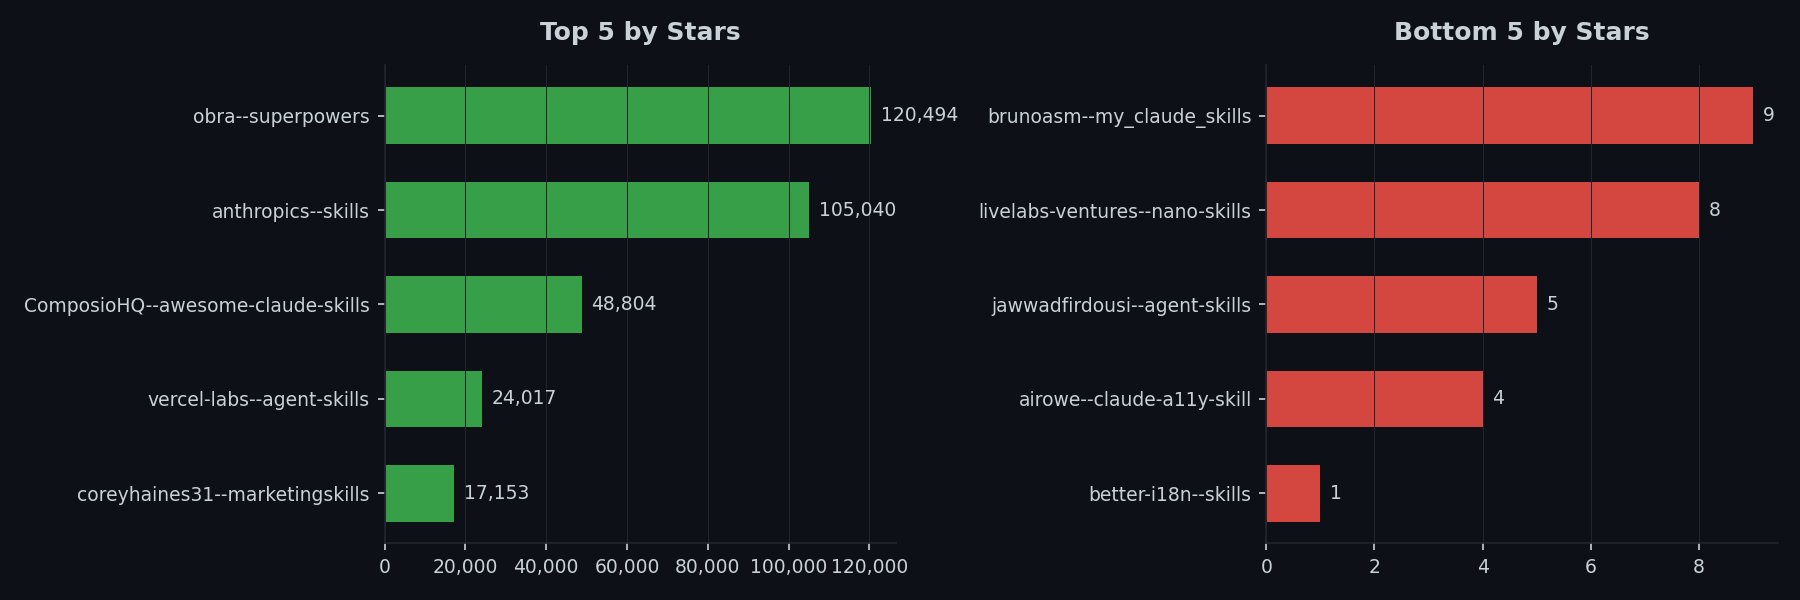
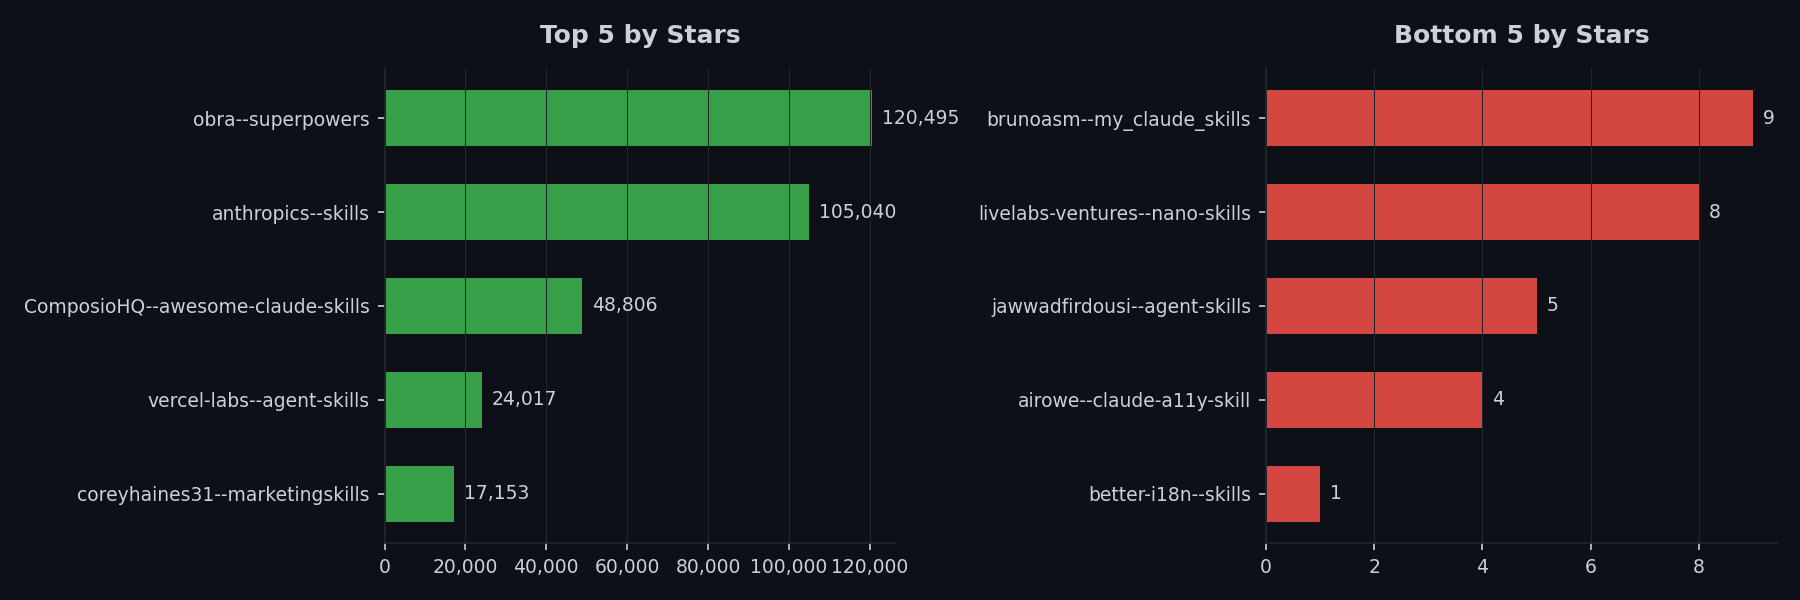
sync: update skills repos, readme and charts

diff --git a/README.md b/README.md
@@ -11,92 +11,92 @@ A curated collection of Claude Code skills repos, automatically synced every 2 d
 | Metric | Value |
 |--------|-------|
 | **Total repos** | 77 |
-| **Total skill files** | 6182 |
-| **Total size** | 227.9 MB |
-| **Last synced** | 2026-03-28 20:17 UTC |
+| **Total skill files** | 6171 (-11) |
+| **Total size** | 227.8 MB |
+| **Last synced** | 2026-03-28 20:18 UTC |
 | **Sync time** | 0s |
 
 ## Repos
 
 | Repo | Description | Skills | Stars | Size | Last Commit | Last Commit Date | Message |
 |------|-------------|--------|-------|------|-------------|------------------|---------|
-| [slavingia--skills](https://github.com/slavingia/skills) | Claude Code skills by Sahil Lavingia | 10 | 4942 | 0.0 MB | `794096f680` | 2026-03-28 | Batch API calls via GraphQL — 77 repos metadata in ~4s instead of 60s+ |
-| [zarazhangrui--codebase-to-course](https://github.com/zarazhangrui/codebase-to-course) | Turn any codebase into a structured course | 3 | 2262 | 0.1 MB | `794096f680` | 2026-03-28 | Batch API calls via GraphQL — 77 repos metadata in ~4s instead of 60s+ |
-| [samber--cc-skills-golang](https://github.com/samber/cc-skills-golang) | Claude Code skills for Go development | 168 | 524 | 2.7 MB | `794096f680` | 2026-03-28 | Batch API calls via GraphQL — 77 repos metadata in ~4s instead of 60s+ |
-| [realkimbarrett--advertising-skills](https://github.com/realkimbarrett/advertising-skills) | Advertising skills | 19 | 369 | 0.0 MB | `794096f680` | 2026-03-28 | Batch API calls via GraphQL — 77 repos metadata in ~4s instead of 60s+ |
-| [ComposioHQ--awesome-claude-skills](https://github.com/ComposioHQ/awesome-claude-skills) | A curated list of awesome Claude Skills, resources, and tools for customizing Claude AI workflows  | 889 | 48804 | 11.1 MB | `794096f680` | 2026-03-28 | Batch API calls via GraphQL — 77 repos metadata in ~4s instead of 60s+ |
-| [anthropics--skills](https://github.com/anthropics/skills) |  Public repository for Agent Skills  | 67 | 105040 (+1) | 9.5 MB | `794096f680` | 2026-03-28 | Batch API calls via GraphQL — 77 repos metadata in ~4s instead of 60s+ |
-| [1NickPappas--move-code-quality-skill](https://github.com/1NickPappas/move-code-quality-skill) | Claude Code skill for analyzing Move packages against the official Move Book Code Quality Checklist | 1 | 18 | 0.0 MB | `794096f680` | 2026-03-28 | Batch API calls via GraphQL — 77 repos metadata in ~4s instead of 60s+ |
-| [ARPeeketi--claude-resume-kit](https://github.com/ARPeeketi/claude-resume-kit) | Extract your papers once, generate tailored LaTeX resumes for every JD. Anti-fabrication controls, multi-perspective critique, AI fingerprint avoidance. | 22 | 30 | 0.5 MB | `794096f680` | 2026-03-28 | Batch API calls via GraphQL — 77 repos metadata in ~4s instead of 60s+ |
-| [AgriciDaniel--claude-blog](https://github.com/AgriciDaniel/claude-blog) | Claude Code skill ecosystem for blog content creation, optimization, and management. Dual-optimized for Google rankings and AI citations. | 77 | 331 | 2.6 MB | `794096f680` | 2026-03-28 | Batch API calls via GraphQL — 77 repos metadata in ~4s instead of 60s+ |
-| [AgriciDaniel--claude-email](https://github.com/AgriciDaniel/claude-email) | AI-powered email management and marketing skill for Claude Code. Inbox triage, composition, quality review, deliverability audit, automation sequences, and marketing strategy. | 27 | 14 | 1.0 MB | `794096f680` | 2026-03-28 | Batch API calls via GraphQL — 77 repos metadata in ~4s instead of 60s+ |
-| [ClickHouse--agent-skills](https://github.com/ClickHouse/agent-skills) | The official Agent Skills for ClickHouse and ClickHouse Cloud | 34 | 376 | 0.2 MB | `794096f680` | 2026-03-28 | Batch API calls via GraphQL — 77 repos metadata in ~4s instead of 60s+ |
-| [Digidai--product-manager-skills](https://github.com/Digidai/product-manager-skills) | PM skill for Claude Code, Codex, Cursor, and Windsurf: diagnose SaaS metrics, critique PRDs, plan roadmaps, run discovery, and coach PM career transitions. | 25 | 31 | 0.1 MB | `794096f680` | 2026-03-28 | Batch API calls via GraphQL — 77 repos metadata in ~4s instead of 60s+ |
-| [EveryInc--compound-engineering-plugin](https://github.com/EveryInc/compound-engineering-plugin) | Office Compound Engineering plugin for Claude Code, Codex, and more | 229 | 11359 | 2.9 MB | `794096f680` | 2026-03-28 | Batch API calls via GraphQL — 77 repos metadata in ~4s instead of 60s+ |
-| [Eyadkelleh--awesome-claude-skills-security](https://github.com/Eyadkelleh/awesome-claude-skills-security) | Security testing toolkit for Claude Code: curated SecLists wordlists, injection payloads, and expert agents for authorized pentesting, CTFs, and bug bounties | 19 | 112 | 2.7 MB | `794096f680` | 2026-03-28 | Batch API calls via GraphQL — 77 repos metadata in ~4s instead of 60s+ |
-| [HeshamFS--materials-simulation-skills](https://github.com/HeshamFS/materials-simulation-skills) | Agent Skills for computational materials science -- numerical stability, solvers, meshing,   convergence, and simulation workflows. | 69 | 28 | 1.6 MB | `794096f680` | 2026-03-28 | Batch API calls via GraphQL — 77 repos metadata in ~4s instead of 60s+ |
-| [Imbad0202--academic-research-skills](https://github.com/Imbad0202/academic-research-skills) | Academic Research Skills for Claude Code: research → write → review → revise → finalize | 120 | 1529 | 3.9 MB | `794096f680` | 2026-03-28 | Batch API calls via GraphQL — 77 repos metadata in ~4s instead of 60s+ |
-| [K-Dense-AI--claude-scientific-skills](https://github.com/K-Dense-AI/claude-scientific-skills) | A set of ready to use Agent Skills for research, science, engineering, analysis, finance and writing. | 921 | 16538 | 16.5 MB | `794096f680` | 2026-03-28 | Batch API calls via GraphQL — 77 repos metadata in ~4s instead of 60s+ |
-| [K-Dense-AI--claude-scientific-writer](https://github.com/K-Dense-AI/claude-scientific-writer) | A general purpose scientific writer | 502 | 1344 | 21.8 MB | `794096f680` | 2026-03-28 | Batch API calls via GraphQL — 77 repos metadata in ~4s instead of 60s+ |
-| [NeoLabHQ--context-engineering-kit](https://github.com/NeoLabHQ/context-engineering-kit) | Hand-crafted Claude Code Skills focused on improving agent results quality. Compatible with OpenCode, Cursor, Antigravity, Gemini CLI, and others. | 230 | 723 | 3.5 MB | `794096f680` | 2026-03-28 | Batch API calls via GraphQL — 77 repos metadata in ~4s instead of 60s+ |
-| [Orchestra-Research--AI-research-SKILLs](https://github.com/Orchestra-Research/AI-research-SKILLs) | Comprehensive open-source library of AI research and engineering skills for any AI model. Package the skills and your claude code/codex/gemini agent will be an AI research agent with full horsepower. Maintained by Orchestra Research. | 350 | 5749 | 23.0 MB | `794096f680` | 2026-03-28 | Batch API calls via GraphQL — 77 repos metadata in ~4s instead of 60s+ |
-| [Paramchoudhary--ResumeSkills](https://github.com/Paramchoudhary/ResumeSkills) | A collection of AI agent skills focused on resume optimization, job applications, and career development. Built for job seekers, career changers, and professionals who want Claude Code to help with resume writing, ATS optimization, interview prep, and strategic job search. | 27 | 191 | 0.3 MB | `794096f680` | 2026-03-28 | Batch API calls via GraphQL — 77 repos metadata in ~4s instead of 60s+ |
-| [Valian--linear-cli-skill](https://github.com/Valian/linear-cli-skill) | linear-cli-skill | 2 | 13 | 0.1 MB | `794096f680` | 2026-03-28 | Batch API calls via GraphQL — 77 repos metadata in ~4s instead of 60s+ |
-| [ahmedasmar--devops-claude-skills](https://github.com/ahmedasmar/devops-claude-skills) | A Claude Code Skills Marketplace for DevOps workflows | 41 | 108 | 1.0 MB | `794096f680` | 2026-03-28 | Batch API calls via GraphQL — 77 repos metadata in ~4s instead of 60s+ |
-| [airowe--claude-a11y-skill](https://github.com/airowe/claude-a11y-skill) | Claude Code skill for running comprehensive accessibility audits (axe-core + jsx-a11y) | 1 | 4 | 0.0 MB | `794096f680` | 2026-03-28 | Batch API calls via GraphQL — 77 repos metadata in ~4s instead of 60s+ |
-| [akin-ozer--cc-devops-skills](https://github.com/akin-ozer/cc-devops-skills) | A practical skill pack for DevOps work in Claude Code and Codex. | 126 | 142 | 4.1 MB | `794096f680` | 2026-03-28 | Batch API calls via GraphQL — 77 repos metadata in ~4s instead of 60s+ |
-| [alonw0--web-asset-generator](https://github.com/alonw0/web-asset-generator) | Claude skill to generate favicons, app icons, and social media images from logos, text, or emojis. Supports emoji suggestions, validation, and framework auto-integration. | 4 | 253 | 15.4 MB | `794096f680` | 2026-03-28 | Batch API calls via GraphQL — 77 repos metadata in ~4s instead of 60s+ |
-| [antonbabenko--terraform-skill](https://github.com/antonbabenko/terraform-skill) | The Claude Agent Skill for Terraform and OpenTofu - testing, modules, CI/CD, and production patterns | 12 | 1404 | 0.2 MB | `794096f680` | 2026-03-28 | Batch API calls via GraphQL — 77 repos metadata in ~4s instead of 60s+ |
-| [avifenesh--agentsys](https://github.com/avifenesh/agentsys) | AI writes code. This automates everything else · 19 plugins, 47 agents, and 39 skills · for Claude Code, OpenCode, Codex, Cursor, Kiro. | 90 | 663 | 3.9 MB | `794096f680` | 2026-03-28 | Batch API calls via GraphQL — 77 repos metadata in ~4s instead of 60s+ |
-| [better-auth--skills](https://github.com/better-auth/skills) | skills | 7 | 163 | 0.1 MB | `794096f680` | 2026-03-28 | Batch API calls via GraphQL — 77 repos metadata in ~4s instead of 60s+ |
-| [better-i18n--skills](https://github.com/better-i18n/skills) | Official AI agent skills for Better i18n — best practices for i18n implementation, translation workflows, and localization automation with Claude, GPT, and other AI assistants | 10 | 1 | 0.1 MB | `794096f680` | 2026-03-28 | Batch API calls via GraphQL — 77 repos metadata in ~4s instead of 60s+ |
-| [brunoasm--my_claude_skills](https://github.com/brunoasm/my_claude_skills) | Claude Skill to prevent automatic confirmatory answers | 13 | 9 | 7.1 MB | `794096f680` | 2026-03-28 | Batch API calls via GraphQL — 77 repos metadata in ~4s instead of 60s+ |
-| [callstackincubator--agent-skills](https://github.com/callstackincubator/agent-skills) | A collection of agent-optimized React Native skills for AI coding assistants. | 115 | 1130 | 9.2 MB | `794096f680` | 2026-03-28 | Batch API calls via GraphQL — 77 repos metadata in ~4s instead of 60s+ |
-| [chrisvoncsefalvay--claude-d3js-skill](https://github.com/chrisvoncsefalvay/claude-d3js-skill) | A Claude skill for d3.js. | 4 | 138 | 0.1 MB | `794096f680` | 2026-03-28 | Batch API calls via GraphQL — 77 repos metadata in ~4s instead of 60s+ |
-| [cloudflare--skills](https://github.com/cloudflare/skills) | Skills for teaching agents how to build on Cloudflare. | 282 | 733 | 1.5 MB | `794096f680` | 2026-03-28 | Batch API calls via GraphQL — 77 repos metadata in ~4s instead of 60s+ |
-| [coffeefuelbump--csv-data-summarizer-claude-skill](https://github.com/coffeefuelbump/csv-data-summarizer-claude-skill) | A Claude Skill that automatically analyzes uploaded CSV files — generating summary statistics, detecting missing data, and creating quick visualizations using Python and pandas. | 1 | 315 | 0.0 MB | `794096f680` | 2026-03-28 | Batch API calls via GraphQL — 77 repos metadata in ~4s instead of 60s+ |
-| [conorbronsdon--avoid-ai-writing](https://github.com/conorbronsdon/avoid-ai-writing) | Claude Code & OpenClaw skill that audits and rewrites content to remove AI writing patterns | 1 | 47 | 0.1 MB | `794096f680` | 2026-03-28 | Batch API calls via GraphQL — 77 repos metadata in ~4s instead of 60s+ |
-| [conorluddy--ios-simulator-skill](https://github.com/conorluddy/ios-simulator-skill) | An IOS Simulator Skill for ClaudeCode. Use it to optimise Claude's ability to build, run and interact with your apps, without using up any of the available token/context budget. | 8 | 674 | 0.4 MB | `794096f680` | 2026-03-28 | Batch API calls via GraphQL — 77 repos metadata in ~4s instead of 60s+ |
-| [coreyhaines31--marketingskills](https://github.com/coreyhaines31/marketingskills) | Marketing skills for Claude Code and AI agents. CRO, copywriting, SEO, analytics, and growth engineering. | 174 | 17153 | 1.8 MB | `794096f680` | 2026-03-28 | Batch API calls via GraphQL — 77 repos metadata in ~4s instead of 60s+ |
-| [dreamiurg--claude-mountaineering-skills](https://github.com/dreamiurg/claude-mountaineering-skills) | Automates mountain route research for North American peaks. Aggregates data from 10+ mountaineering sources to generate detailed route beta reports with weather, avalanche conditions, and trip reports. | 15 | 22 | 4.4 MB | `794096f680` | 2026-03-28 | Batch API calls via GraphQL — 77 repos metadata in ~4s instead of 60s+ |
-| [emaynard--claude-family-history-research-skill](https://github.com/emaynard/claude-family-history-research-skill) | A Claude Skill to assist with family history and genealogy research planning. | 14 | 49 | 0.1 MB | `794096f680` | 2026-03-28 | Batch API calls via GraphQL — 77 repos metadata in ~4s instead of 60s+ |
-| [expo--skills](https://github.com/expo/skills) | A collection of AI agent skills for working with Expo projects and Expo Application Services | 38 | 1565 | 0.2 MB | `794096f680` | 2026-03-28 | Batch API calls via GraphQL — 77 repos metadata in ~4s instead of 60s+ |
-| [firecrawl--cli](https://github.com/firecrawl/cli) | CLI and Agent Skill for Firecrawl - Add scrape, search, and browsing capabilities to your AI agents | 10 | 231 | 0.6 MB | `794096f680` | 2026-03-28 | Batch API calls via GraphQL — 77 repos metadata in ~4s instead of 60s+ |
-| [hashicorp--agent-skills](https://github.com/hashicorp/agent-skills) | A collection of Agent skills and Claude Code plugins for HashiCorp products. | 26 | 494 | 0.3 MB | `794096f680` | 2026-03-28 | Batch API calls via GraphQL — 77 repos metadata in ~4s instead of 60s+ |
-| [jananthan30--Resume-Builder](https://github.com/jananthan30/Resume-Builder) | AI-powered resume & cover letter generator with dual ATS + HR scoring. Works for any profession. Claude Code plugin. | 18 | 21 | 1.3 MB | `794096f680` | 2026-03-28 | Batch API calls via GraphQL — 77 repos metadata in ~4s instead of 60s+ |
-| [javiera-vasquez--claude-code-job-tailor](https://github.com/javiera-vasquez/claude-code-job-tailor) | AI resume optimization system for Claude Code. Analyzes job postings, ranks requirements by priority, and automatically selects your most relevant achievements. Write your experience once in YAML, generate unlimited tailored PDFs in 60 less than seconds using Tailor | 15 | 105 | 34.3 MB | `794096f680` | 2026-03-28 | Batch API calls via GraphQL — 77 repos metadata in ~4s instead of 60s+ |
-| [jawwadfirdousi--agent-skills](https://github.com/jawwadfirdousi/agent-skills) | agent-skills | 7 | 5 | 0.1 MB | `794096f680` | 2026-03-28 | Batch API calls via GraphQL — 77 repos metadata in ~4s instead of 60s+ |
-| [jthack--ffuf_claude_skill](https://github.com/jthack/ffuf_claude_skill) | This is a "skill" for claude to use FFUF. | 3 | 129 | 0.0 MB | `794096f680` | 2026-03-28 | Batch API calls via GraphQL — 77 repos metadata in ~4s instead of 60s+ |
-| [lackeyjb--playwright-skill](https://github.com/lackeyjb/playwright-skill) | Claude Code Skill for browser automation with Playwright. Model-invoked - Claude autonomously writes and executes custom automation for testing and validation. | 2 | 2224 | 0.1 MB | `794096f680` | 2026-03-28 | Batch API calls via GraphQL — 77 repos metadata in ~4s instead of 60s+ |
-| [livelabs-ventures--nano-skills](https://github.com/livelabs-ventures/nano-skills) | Creating images with Nano Banana Pro | 1 | 8 | 0.0 MB | `794096f680` | 2026-03-28 | Batch API calls via GraphQL — 77 repos metadata in ~4s instead of 60s+ |
-| [mhattingpete--claude-skills-marketplace](https://github.com/mhattingpete/claude-skills-marketplace) | Claude Code Skills for software engineering workflows - Git automation, testing, and code review | 34 | 514 | 1.5 MB | `794096f680` | 2026-03-28 | Batch API calls via GraphQL — 77 repos metadata in ~4s instead of 60s+ |
-| [michalparkola--tapestry-skills-for-claude-code](https://github.com/michalparkola/tapestry-skills-for-claude-code) | Claude Code skills to download sources (articles, PDFs, YouTube video transcripts) | 7 | 305 | 0.1 MB | `794096f680` | 2026-03-28 | Batch API calls via GraphQL — 77 repos metadata in ~4s instead of 60s+ |
-| [neondatabase--agent-skills](https://github.com/neondatabase/agent-skills) | Agent Skills for Neon Severless Postgres | 13 | 43 | 0.7 MB | `794096f680` | 2026-03-28 | Batch API calls via GraphQL — 77 repos metadata in ~4s instead of 60s+ |
-| [netlify--context-and-tools](https://github.com/netlify/context-and-tools) | context-and-tools | 44 | 10 | 0.2 MB | `794096f680` | 2026-03-28 | Batch API calls via GraphQL — 77 repos metadata in ~4s instead of 60s+ |
-| [obra--superpowers](https://github.com/obra/superpowers) | An agentic skills framework & software development methodology that works. | 69 | 120494 (+1) | 0.7 MB | `794096f680` | 2026-03-28 | Batch API calls via GraphQL — 77 repos metadata in ~4s instead of 60s+ |
-| [obra--superpowers-skills](https://github.com/obra/superpowers-skills) | Community-editable skills for Claude Code's superpowers plugin | 46 | 581 | 0.4 MB | `794096f680` | 2026-03-28 | Batch API calls via GraphQL — 77 repos metadata in ~4s instead of 60s+ |
-| [omkamal--pypict-claude-skill](https://github.com/omkamal/pypict-claude-skill) | A claude skill that generate test cases using N-wise test cases using the pypict library | 13 | 62 | 0.1 MB | `794096f680` | 2026-03-28 | Batch API calls via GraphQL — 77 repos metadata in ~4s instead of 60s+ |
-| [proficientlyjobs--proficiently-claude-skills](https://github.com/proficientlyjobs/proficiently-claude-skills) | Claude Code skills for AI-powered job search, resume tailoring, and cover letter writing | 24 | 78 | 0.1 MB | `794096f680` | 2026-03-28 | Batch API calls via GraphQL — 77 repos metadata in ~4s instead of 60s+ |
-| [remotion-dev--skills](https://github.com/remotion-dev/skills) | Agent Skills | 38 | 2442 | 0.1 MB | `794096f680` | 2026-03-28 | Batch API calls via GraphQL — 77 repos metadata in ~4s instead of 60s+ |
-| [replicate--skills](https://github.com/replicate/skills) | A collection of Agent Skills for building AI-powered apps with Replicate | 2 | 26 | 0.0 MB | `794096f680` | 2026-03-28 | Batch API calls via GraphQL — 77 repos metadata in ~4s instead of 60s+ |
-| [robertguss--claude-skills](https://github.com/robertguss/claude-skills) | A collection of custom skills that extend Claude's capabilities with specialized workflows, methods, and domain knowledge. | 244 | 53 | 2.2 MB | `794096f680` | 2026-03-28 | Batch API calls via GraphQL — 77 repos metadata in ~4s instead of 60s+ |
-| [ryanbbrown--revealjs-skill](https://github.com/ryanbbrown/revealjs-skill) | Claude Code skill for making reveal.js presentations | 4 | 240 | 2.1 MB | `794096f680` | 2026-03-28 | Batch API calls via GraphQL — 77 repos metadata in ~4s instead of 60s+ |
-| [sanity-io--agent-toolkit](https://github.com/sanity-io/agent-toolkit) | Collection of resources to help AI agents build better with Sanity. | 44 | 104 | 0.3 MB | `794096f680` | 2026-03-28 | Batch API calls via GraphQL — 77 repos metadata in ~4s instead of 60s+ |
-| [sanjay3290--ai-skills](https://github.com/sanjay3290/ai-skills) | Collection of agent skills for AI coding assistants | 24 | 180 | 0.8 MB | `794096f680` | 2026-03-28 | Batch API calls via GraphQL — 77 repos metadata in ~4s instead of 60s+ |
-| [smerchek--claude-epub-skill](https://github.com/smerchek/claude-epub-skill) | A Claude Skill for converting markdown documents, chat summaries, or research reports into a downloadable epub file that can be sent to kindle | 5 | 101 | 0.1 MB | `794096f680` | 2026-03-28 | Batch API calls via GraphQL — 77 repos metadata in ~4s instead of 60s+ |
-| [squirrelscan--skills](https://github.com/squirrelscan/skills) | Agent skills for squirrelscan website audit tool | 2 | 68 | 0.0 MB | `794096f680` | 2026-03-28 | Batch API calls via GraphQL — 77 repos metadata in ~4s instead of 60s+ |
-| [stripe--ai](https://github.com/stripe/ai) | One-stop shop for building AI-powered products and businesses with Stripe. | 47 | 1410 | 22.2 MB | `794096f680` | 2026-03-28 | Batch API calls via GraphQL — 77 repos metadata in ~4s instead of 60s+ |
-| [supabase--agent-skills](https://github.com/supabase/agent-skills) | Agent Skills to help developers using AI agents with Supabase | 39 | 1728 | 0.2 MB | `794096f680` | 2026-03-28 | Batch API calls via GraphQL — 77 repos metadata in ~4s instead of 60s+ |
-| [tinybirdco--tinybird-agent-skills](https://github.com/tinybirdco/tinybird-agent-skills) | tinybird-agent-skills | 47 | 14 | 0.1 MB | `794096f680` | 2026-03-28 | Batch API calls via GraphQL — 77 repos metadata in ~4s instead of 60s+ |
-| [trailofbits--skills](https://github.com/trailofbits/skills) | Trail of Bits Claude Code skills for security research, vulnerability detection, and audit workflows | 389 | 4046 | 3.4 MB | `794096f680` | 2026-03-28 | Batch API calls via GraphQL — 77 repos metadata in ~4s instead of 60s+ |
-| [typefully--agent-skills](https://github.com/typefully/agent-skills) | AI agent skills for drafting and scheduling social media posts via Typefully | 4 | 39 | 0.2 MB | `794096f680` | 2026-03-28 | Batch API calls via GraphQL — 77 repos metadata in ~4s instead of 60s+ |
-| [varunr89--resume-tailoring-skill](https://github.com/varunr89/resume-tailoring-skill) | AI-powered resume tailoring skill for Claude Code | 12 | 193 | 0.2 MB | `794096f680` | 2026-03-28 | Batch API calls via GraphQL — 77 repos metadata in ~4s instead of 60s+ |
-| [vercel-labs--agent-skills](https://github.com/vercel-labs/agent-skills) | Vercel's official collection of agent skills | 127 | 24017 | 0.7 MB | `794096f680` | 2026-03-28 | Batch API calls via GraphQL — 77 repos metadata in ~4s instead of 60s+ |
-| [vercel-labs--next-skills](https://github.com/vercel-labs/next-skills) | next-skills | 24 | 783 | 0.1 MB | `794096f680` | 2026-03-28 | Batch API calls via GraphQL — 77 repos metadata in ~4s instead of 60s+ |
-| [wrsmith108--linear-claude-skill](https://github.com/wrsmith108/linear-claude-skill) | Agent skill for managing Linear issues, projects, and teams. MCP tools, SDK automation, GraphQL API patterns. | 7 | 74 | 0.5 MB | `794096f680` | 2026-03-28 | Batch API calls via GraphQL — 77 repos metadata in ~4s instead of 60s+ |
-| [wrsmith108--varlock-claude-skill](https://github.com/wrsmith108/varlock-claude-skill) | Claude Code skill for secure environment variable management with Varlock. Never expose secrets in Claude sessions. | 1 | 16 | 0.0 MB | `794096f680` | 2026-03-28 | Batch API calls via GraphQL — 77 repos metadata in ~4s instead of 60s+ |
-| [zarazhangrui--frontend-slides](https://github.com/zarazhangrui/frontend-slides) | Create beautiful slides on the web using Claude's frontend skills | 4 | 11554 | 0.1 MB | `794096f680` | 2026-03-28 | Batch API calls via GraphQL — 77 repos metadata in ~4s instead of 60s+ |
-| [zxkane--aws-skills](https://github.com/zxkane/aws-skills) | Claude Agent Skills for AWS | 19 | 223 | 0.3 MB | `794096f680` | 2026-03-28 | Batch API calls via GraphQL — 77 repos metadata in ~4s instead of 60s+ |
+| [slavingia--skills](https://github.com/slavingia/skills) | Claude Code skills by Sahil Lavingia | 10 | 4942 | 0.0 MB | `6c3635474b` | 2026-03-28 | Regenerate after merge conflict |
+| [zarazhangrui--codebase-to-course](https://github.com/zarazhangrui/codebase-to-course) | Turn any codebase into a structured course | 3 | 2262 | 0.1 MB | `6c3635474b` | 2026-03-28 | Regenerate after merge conflict |
+| [samber--cc-skills-golang](https://github.com/samber/cc-skills-golang) | Claude Code skills for Go development | 168 | 524 | 2.7 MB | `6c3635474b` | 2026-03-28 | Regenerate after merge conflict |
+| [realkimbarrett--advertising-skills](https://github.com/realkimbarrett/advertising-skills) | Advertising skills | 19 | 369 | 0.0 MB | `6c3635474b` | 2026-03-28 | Regenerate after merge conflict |
+| [ComposioHQ--awesome-claude-skills](https://github.com/ComposioHQ/awesome-claude-skills) | A curated list of awesome Claude Skills, resources, and tools for customizing Claude AI workflows  | 889 | 48806 (+2) | 11.1 MB | `6c3635474b` | 2026-03-28 | Regenerate after merge conflict |
+| [anthropics--skills](https://github.com/anthropics/skills) |  Public repository for Agent Skills  | 67 | 105040 | 9.5 MB | `6c3635474b` | 2026-03-28 | Regenerate after merge conflict |
+| [1NickPappas--move-code-quality-skill](https://github.com/1NickPappas/move-code-quality-skill) | Claude Code skill for analyzing Move packages against the official Move Book Code Quality Checklist | 1 | 18 | 0.0 MB | `6c3635474b` | 2026-03-28 | Regenerate after merge conflict |
+| [ARPeeketi--claude-resume-kit](https://github.com/ARPeeketi/claude-resume-kit) | Extract your papers once, generate tailored LaTeX resumes for every JD. Anti-fabrication controls, multi-perspective critique, AI fingerprint avoidance. | 22 | 30 | 0.5 MB | `6c3635474b` | 2026-03-28 | Regenerate after merge conflict |
+| [AgriciDaniel--claude-blog](https://github.com/AgriciDaniel/claude-blog) | Claude Code skill ecosystem for blog content creation, optimization, and management. Dual-optimized for Google rankings and AI citations. | 77 | 331 | 2.6 MB | `6c3635474b` | 2026-03-28 | Regenerate after merge conflict |
+| [AgriciDaniel--claude-email](https://github.com/AgriciDaniel/claude-email) | AI-powered email management and marketing skill for Claude Code. Inbox triage, composition, quality review, deliverability audit, automation sequences, and marketing strategy. | 27 | 14 | 1.0 MB | `6c3635474b` | 2026-03-28 | Regenerate after merge conflict |
+| [ClickHouse--agent-skills](https://github.com/ClickHouse/agent-skills) | The official Agent Skills for ClickHouse and ClickHouse Cloud | 34 | 376 | 0.2 MB | `6c3635474b` | 2026-03-28 | Regenerate after merge conflict |
+| [Digidai--product-manager-skills](https://github.com/Digidai/product-manager-skills) | PM skill for Claude Code, Codex, Cursor, and Windsurf: diagnose SaaS metrics, critique PRDs, plan roadmaps, run discovery, and coach PM career transitions. | 25 | 31 | 0.1 MB | `6c3635474b` | 2026-03-28 | Regenerate after merge conflict |
+| [EveryInc--compound-engineering-plugin](https://github.com/EveryInc/compound-engineering-plugin) | Office Compound Engineering plugin for Claude Code, Codex, and more | 229 | 11359 | 2.9 MB | `6c3635474b` | 2026-03-28 | Regenerate after merge conflict |
+| [Eyadkelleh--awesome-claude-skills-security](https://github.com/Eyadkelleh/awesome-claude-skills-security) | Security testing toolkit for Claude Code: curated SecLists wordlists, injection payloads, and expert agents for authorized pentesting, CTFs, and bug bounties | 19 | 112 | 2.7 MB | `6c3635474b` | 2026-03-28 | Regenerate after merge conflict |
+| [HeshamFS--materials-simulation-skills](https://github.com/HeshamFS/materials-simulation-skills) | Agent Skills for computational materials science -- numerical stability, solvers, meshing,   convergence, and simulation workflows. | 69 | 28 | 1.6 MB | `6c3635474b` | 2026-03-28 | Regenerate after merge conflict |
+| [Imbad0202--academic-research-skills](https://github.com/Imbad0202/academic-research-skills) | Academic Research Skills for Claude Code: research → write → review → revise → finalize | 120 | 1529 | 3.9 MB | `6c3635474b` | 2026-03-28 | Regenerate after merge conflict |
+| [K-Dense-AI--claude-scientific-skills](https://github.com/K-Dense-AI/claude-scientific-skills) | A set of ready to use Agent Skills for research, science, engineering, analysis, finance and writing. | 921 | 16538 | 16.5 MB | `6c3635474b` | 2026-03-28 | Regenerate after merge conflict |
+| [K-Dense-AI--claude-scientific-writer](https://github.com/K-Dense-AI/claude-scientific-writer) | A general purpose scientific writer | 502 | 1344 | 21.8 MB | `6c3635474b` | 2026-03-28 | Regenerate after merge conflict |
+| [NeoLabHQ--context-engineering-kit](https://github.com/NeoLabHQ/context-engineering-kit) | Hand-crafted Claude Code Skills focused on improving agent results quality. Compatible with OpenCode, Cursor, Antigravity, Gemini CLI, and others. | 220 (-10) | 723 | 3.4 MB | `6c3635474b` | 2026-03-28 | Regenerate after merge conflict |
+| [Orchestra-Research--AI-research-SKILLs](https://github.com/Orchestra-Research/AI-research-SKILLs) | Comprehensive open-source library of AI research and engineering skills for any AI model. Package the skills and your claude code/codex/gemini agent will be an AI research agent with full horsepower. Maintained by Orchestra Research. | 350 | 5749 | 23.0 MB | `6c3635474b` | 2026-03-28 | Regenerate after merge conflict |
+| [Paramchoudhary--ResumeSkills](https://github.com/Paramchoudhary/ResumeSkills) | A collection of AI agent skills focused on resume optimization, job applications, and career development. Built for job seekers, career changers, and professionals who want Claude Code to help with resume writing, ATS optimization, interview prep, and strategic job search. | 27 | 191 | 0.3 MB | `6c3635474b` | 2026-03-28 | Regenerate after merge conflict |
+| [Valian--linear-cli-skill](https://github.com/Valian/linear-cli-skill) | linear-cli-skill | 2 | 13 | 0.1 MB | `6c3635474b` | 2026-03-28 | Regenerate after merge conflict |
+| [ahmedasmar--devops-claude-skills](https://github.com/ahmedasmar/devops-claude-skills) | A Claude Code Skills Marketplace for DevOps workflows | 41 | 108 | 1.0 MB | `6c3635474b` | 2026-03-28 | Regenerate after merge conflict |
+| [airowe--claude-a11y-skill](https://github.com/airowe/claude-a11y-skill) | Claude Code skill for running comprehensive accessibility audits (axe-core + jsx-a11y) | 1 | 4 | 0.0 MB | `6c3635474b` | 2026-03-28 | Regenerate after merge conflict |
+| [akin-ozer--cc-devops-skills](https://github.com/akin-ozer/cc-devops-skills) | A practical skill pack for DevOps work in Claude Code and Codex. | 126 | 142 | 4.1 MB | `6c3635474b` | 2026-03-28 | Regenerate after merge conflict |
+| [alonw0--web-asset-generator](https://github.com/alonw0/web-asset-generator) | Claude skill to generate favicons, app icons, and social media images from logos, text, or emojis. Supports emoji suggestions, validation, and framework auto-integration. | 4 | 253 | 15.4 MB | `6c3635474b` | 2026-03-28 | Regenerate after merge conflict |
+| [antonbabenko--terraform-skill](https://github.com/antonbabenko/terraform-skill) | The Claude Agent Skill for Terraform and OpenTofu - testing, modules, CI/CD, and production patterns | 12 | 1404 | 0.2 MB | `6c3635474b` | 2026-03-28 | Regenerate after merge conflict |
+| [avifenesh--agentsys](https://github.com/avifenesh/agentsys) | AI writes code. This automates everything else · 19 plugins, 47 agents, and 39 skills · for Claude Code, OpenCode, Codex, Cursor, Kiro. | 90 | 663 | 3.9 MB | `6c3635474b` | 2026-03-28 | Regenerate after merge conflict |
+| [better-auth--skills](https://github.com/better-auth/skills) | skills | 7 | 163 | 0.1 MB | `6c3635474b` | 2026-03-28 | Regenerate after merge conflict |
+| [better-i18n--skills](https://github.com/better-i18n/skills) | Official AI agent skills for Better i18n — best practices for i18n implementation, translation workflows, and localization automation with Claude, GPT, and other AI assistants | 10 | 1 | 0.1 MB | `6c3635474b` | 2026-03-28 | Regenerate after merge conflict |
+| [brunoasm--my_claude_skills](https://github.com/brunoasm/my_claude_skills) | Claude Skill to prevent automatic confirmatory answers | 13 | 9 | 7.1 MB | `6c3635474b` | 2026-03-28 | Regenerate after merge conflict |
+| [callstackincubator--agent-skills](https://github.com/callstackincubator/agent-skills) | A collection of agent-optimized React Native skills for AI coding assistants. | 115 | 1130 | 9.2 MB | `6c3635474b` | 2026-03-28 | Regenerate after merge conflict |
+| [chrisvoncsefalvay--claude-d3js-skill](https://github.com/chrisvoncsefalvay/claude-d3js-skill) | A Claude skill for d3.js. | 4 | 138 | 0.1 MB | `6c3635474b` | 2026-03-28 | Regenerate after merge conflict |
+| [cloudflare--skills](https://github.com/cloudflare/skills) | Skills for teaching agents how to build on Cloudflare. | 282 | 733 | 1.5 MB | `6c3635474b` | 2026-03-28 | Regenerate after merge conflict |
+| [coffeefuelbump--csv-data-summarizer-claude-skill](https://github.com/coffeefuelbump/csv-data-summarizer-claude-skill) | A Claude Skill that automatically analyzes uploaded CSV files — generating summary statistics, detecting missing data, and creating quick visualizations using Python and pandas. | 1 | 315 | 0.0 MB | `6c3635474b` | 2026-03-28 | Regenerate after merge conflict |
+| [conorbronsdon--avoid-ai-writing](https://github.com/conorbronsdon/avoid-ai-writing) | Claude Code & OpenClaw skill that audits and rewrites content to remove AI writing patterns | 1 | 47 | 0.1 MB | `6c3635474b` | 2026-03-28 | Regenerate after merge conflict |
+| [conorluddy--ios-simulator-skill](https://github.com/conorluddy/ios-simulator-skill) | An IOS Simulator Skill for ClaudeCode. Use it to optimise Claude's ability to build, run and interact with your apps, without using up any of the available token/context budget. | 8 | 674 | 0.4 MB | `6c3635474b` | 2026-03-28 | Regenerate after merge conflict |
+| [coreyhaines31--marketingskills](https://github.com/coreyhaines31/marketingskills) | Marketing skills for Claude Code and AI agents. CRO, copywriting, SEO, analytics, and growth engineering. | 174 | 17153 | 1.8 MB | `6c3635474b` | 2026-03-28 | Regenerate after merge conflict |
+| [dreamiurg--claude-mountaineering-skills](https://github.com/dreamiurg/claude-mountaineering-skills) | Automates mountain route research for North American peaks. Aggregates data from 10+ mountaineering sources to generate detailed route beta reports with weather, avalanche conditions, and trip reports. | 14 (-1) | 22 | 4.4 MB | `6c3635474b` | 2026-03-28 | Regenerate after merge conflict |
+| [emaynard--claude-family-history-research-skill](https://github.com/emaynard/claude-family-history-research-skill) | A Claude Skill to assist with family history and genealogy research planning. | 14 | 49 | 0.1 MB | `6c3635474b` | 2026-03-28 | Regenerate after merge conflict |
+| [expo--skills](https://github.com/expo/skills) | A collection of AI agent skills for working with Expo projects and Expo Application Services | 38 | 1565 | 0.2 MB | `6c3635474b` | 2026-03-28 | Regenerate after merge conflict |
+| [firecrawl--cli](https://github.com/firecrawl/cli) | CLI and Agent Skill for Firecrawl - Add scrape, search, and browsing capabilities to your AI agents | 10 | 231 | 0.6 MB | `6c3635474b` | 2026-03-28 | Regenerate after merge conflict |
+| [hashicorp--agent-skills](https://github.com/hashicorp/agent-skills) | A collection of Agent skills and Claude Code plugins for HashiCorp products. | 26 | 494 | 0.3 MB | `6c3635474b` | 2026-03-28 | Regenerate after merge conflict |
+| [jananthan30--Resume-Builder](https://github.com/jananthan30/Resume-Builder) | AI-powered resume & cover letter generator with dual ATS + HR scoring. Works for any profession. Claude Code plugin. | 18 | 21 | 1.3 MB | `6c3635474b` | 2026-03-28 | Regenerate after merge conflict |
+| [javiera-vasquez--claude-code-job-tailor](https://github.com/javiera-vasquez/claude-code-job-tailor) | AI resume optimization system for Claude Code. Analyzes job postings, ranks requirements by priority, and automatically selects your most relevant achievements. Write your experience once in YAML, generate unlimited tailored PDFs in 60 less than seconds using Tailor | 15 | 105 | 34.3 MB | `6c3635474b` | 2026-03-28 | Regenerate after merge conflict |
+| [jawwadfirdousi--agent-skills](https://github.com/jawwadfirdousi/agent-skills) | agent-skills | 7 | 5 | 0.1 MB | `6c3635474b` | 2026-03-28 | Regenerate after merge conflict |
+| [jthack--ffuf_claude_skill](https://github.com/jthack/ffuf_claude_skill) | This is a "skill" for claude to use FFUF. | 3 | 129 | 0.0 MB | `6c3635474b` | 2026-03-28 | Regenerate after merge conflict |
+| [lackeyjb--playwright-skill](https://github.com/lackeyjb/playwright-skill) | Claude Code Skill for browser automation with Playwright. Model-invoked - Claude autonomously writes and executes custom automation for testing and validation. | 2 | 2224 | 0.1 MB | `6c3635474b` | 2026-03-28 | Regenerate after merge conflict |
+| [livelabs-ventures--nano-skills](https://github.com/livelabs-ventures/nano-skills) | Creating images with Nano Banana Pro | 1 | 8 | 0.0 MB | `6c3635474b` | 2026-03-28 | Regenerate after merge conflict |
+| [mhattingpete--claude-skills-marketplace](https://github.com/mhattingpete/claude-skills-marketplace) | Claude Code Skills for software engineering workflows - Git automation, testing, and code review | 34 | 514 | 1.5 MB | `6c3635474b` | 2026-03-28 | Regenerate after merge conflict |
+| [michalparkola--tapestry-skills-for-claude-code](https://github.com/michalparkola/tapestry-skills-for-claude-code) | Claude Code skills to download sources (articles, PDFs, YouTube video transcripts) | 7 | 305 | 0.1 MB | `6c3635474b` | 2026-03-28 | Regenerate after merge conflict |
+| [neondatabase--agent-skills](https://github.com/neondatabase/agent-skills) | Agent Skills for Neon Severless Postgres | 13 | 43 | 0.7 MB | `6c3635474b` | 2026-03-28 | Regenerate after merge conflict |
+| [netlify--context-and-tools](https://github.com/netlify/context-and-tools) | context-and-tools | 44 | 10 | 0.2 MB | `6c3635474b` | 2026-03-28 | Regenerate after merge conflict |
+| [obra--superpowers](https://github.com/obra/superpowers) | An agentic skills framework & software development methodology that works. | 69 | 120495 (+1) | 0.7 MB | `6c3635474b` | 2026-03-28 | Regenerate after merge conflict |
+| [obra--superpowers-skills](https://github.com/obra/superpowers-skills) | Community-editable skills for Claude Code's superpowers plugin | 46 | 581 | 0.4 MB | `6c3635474b` | 2026-03-28 | Regenerate after merge conflict |
+| [omkamal--pypict-claude-skill](https://github.com/omkamal/pypict-claude-skill) | A claude skill that generate test cases using N-wise test cases using the pypict library | 13 | 62 | 0.1 MB | `6c3635474b` | 2026-03-28 | Regenerate after merge conflict |
+| [proficientlyjobs--proficiently-claude-skills](https://github.com/proficientlyjobs/proficiently-claude-skills) | Claude Code skills for AI-powered job search, resume tailoring, and cover letter writing | 24 | 78 | 0.1 MB | `6c3635474b` | 2026-03-28 | Regenerate after merge conflict |
+| [remotion-dev--skills](https://github.com/remotion-dev/skills) | Agent Skills | 38 | 2442 | 0.1 MB | `6c3635474b` | 2026-03-28 | Regenerate after merge conflict |
+| [replicate--skills](https://github.com/replicate/skills) | A collection of Agent Skills for building AI-powered apps with Replicate | 2 | 26 | 0.0 MB | `6c3635474b` | 2026-03-28 | Regenerate after merge conflict |
+| [robertguss--claude-skills](https://github.com/robertguss/claude-skills) | A collection of custom skills that extend Claude's capabilities with specialized workflows, methods, and domain knowledge. | 244 | 53 | 2.2 MB | `6c3635474b` | 2026-03-28 | Regenerate after merge conflict |
+| [ryanbbrown--revealjs-skill](https://github.com/ryanbbrown/revealjs-skill) | Claude Code skill for making reveal.js presentations | 4 | 240 | 2.1 MB | `6c3635474b` | 2026-03-28 | Regenerate after merge conflict |
+| [sanity-io--agent-toolkit](https://github.com/sanity-io/agent-toolkit) | Collection of resources to help AI agents build better with Sanity. | 44 | 104 | 0.3 MB | `6c3635474b` | 2026-03-28 | Regenerate after merge conflict |
+| [sanjay3290--ai-skills](https://github.com/sanjay3290/ai-skills) | Collection of agent skills for AI coding assistants | 24 | 180 | 0.8 MB | `6c3635474b` | 2026-03-28 | Regenerate after merge conflict |
+| [smerchek--claude-epub-skill](https://github.com/smerchek/claude-epub-skill) | A Claude Skill for converting markdown documents, chat summaries, or research reports into a downloadable epub file that can be sent to kindle | 5 | 101 | 0.1 MB | `6c3635474b` | 2026-03-28 | Regenerate after merge conflict |
+| [squirrelscan--skills](https://github.com/squirrelscan/skills) | Agent skills for squirrelscan website audit tool | 2 | 68 | 0.0 MB | `6c3635474b` | 2026-03-28 | Regenerate after merge conflict |
+| [stripe--ai](https://github.com/stripe/ai) | One-stop shop for building AI-powered products and businesses with Stripe. | 47 | 1410 | 22.2 MB | `6c3635474b` | 2026-03-28 | Regenerate after merge conflict |
+| [supabase--agent-skills](https://github.com/supabase/agent-skills) | Agent Skills to help developers using AI agents with Supabase | 39 | 1728 | 0.2 MB | `6c3635474b` | 2026-03-28 | Regenerate after merge conflict |
+| [tinybirdco--tinybird-agent-skills](https://github.com/tinybirdco/tinybird-agent-skills) | tinybird-agent-skills | 47 | 14 | 0.1 MB | `6c3635474b` | 2026-03-28 | Regenerate after merge conflict |
+| [trailofbits--skills](https://github.com/trailofbits/skills) | Trail of Bits Claude Code skills for security research, vulnerability detection, and audit workflows | 389 | 4046 | 3.4 MB | `6c3635474b` | 2026-03-28 | Regenerate after merge conflict |
+| [typefully--agent-skills](https://github.com/typefully/agent-skills) | AI agent skills for drafting and scheduling social media posts via Typefully | 4 | 39 | 0.2 MB | `6c3635474b` | 2026-03-28 | Regenerate after merge conflict |
+| [varunr89--resume-tailoring-skill](https://github.com/varunr89/resume-tailoring-skill) | AI-powered resume tailoring skill for Claude Code | 12 | 193 | 0.2 MB | `6c3635474b` | 2026-03-28 | Regenerate after merge conflict |
+| [vercel-labs--agent-skills](https://github.com/vercel-labs/agent-skills) | Vercel's official collection of agent skills | 127 | 24017 | 0.7 MB | `6c3635474b` | 2026-03-28 | Regenerate after merge conflict |
+| [vercel-labs--next-skills](https://github.com/vercel-labs/next-skills) | next-skills | 24 | 783 | 0.1 MB | `6c3635474b` | 2026-03-28 | Regenerate after merge conflict |
+| [wrsmith108--linear-claude-skill](https://github.com/wrsmith108/linear-claude-skill) | Agent skill for managing Linear issues, projects, and teams. MCP tools, SDK automation, GraphQL API patterns. | 7 | 74 | 0.5 MB | `6c3635474b` | 2026-03-28 | Regenerate after merge conflict |
+| [wrsmith108--varlock-claude-skill](https://github.com/wrsmith108/varlock-claude-skill) | Claude Code skill for secure environment variable management with Varlock. Never expose secrets in Claude sessions. | 1 | 16 | 0.0 MB | `6c3635474b` | 2026-03-28 | Regenerate after merge conflict |
+| [zarazhangrui--frontend-slides](https://github.com/zarazhangrui/frontend-slides) | Create beautiful slides on the web using Claude's frontend skills | 4 | 11554 | 0.1 MB | `6c3635474b` | 2026-03-28 | Regenerate after merge conflict |
+| [zxkane--aws-skills](https://github.com/zxkane/aws-skills) | Claude Agent Skills for AWS | 19 | 223 | 0.3 MB | `6c3635474b` | 2026-03-28 | Regenerate after merge conflict |
 
 ## Charts
 
@@ -118,4 +118,4 @@ A GitHub Actions workflow runs every 2 days to:
 
 ---
 
-*Auto-generated by `generate_readme.py` on 2026-03-28 20:17 UTC*
+*Auto-generated by `generate_readme.py` on 2026-03-28 20:18 UTC*